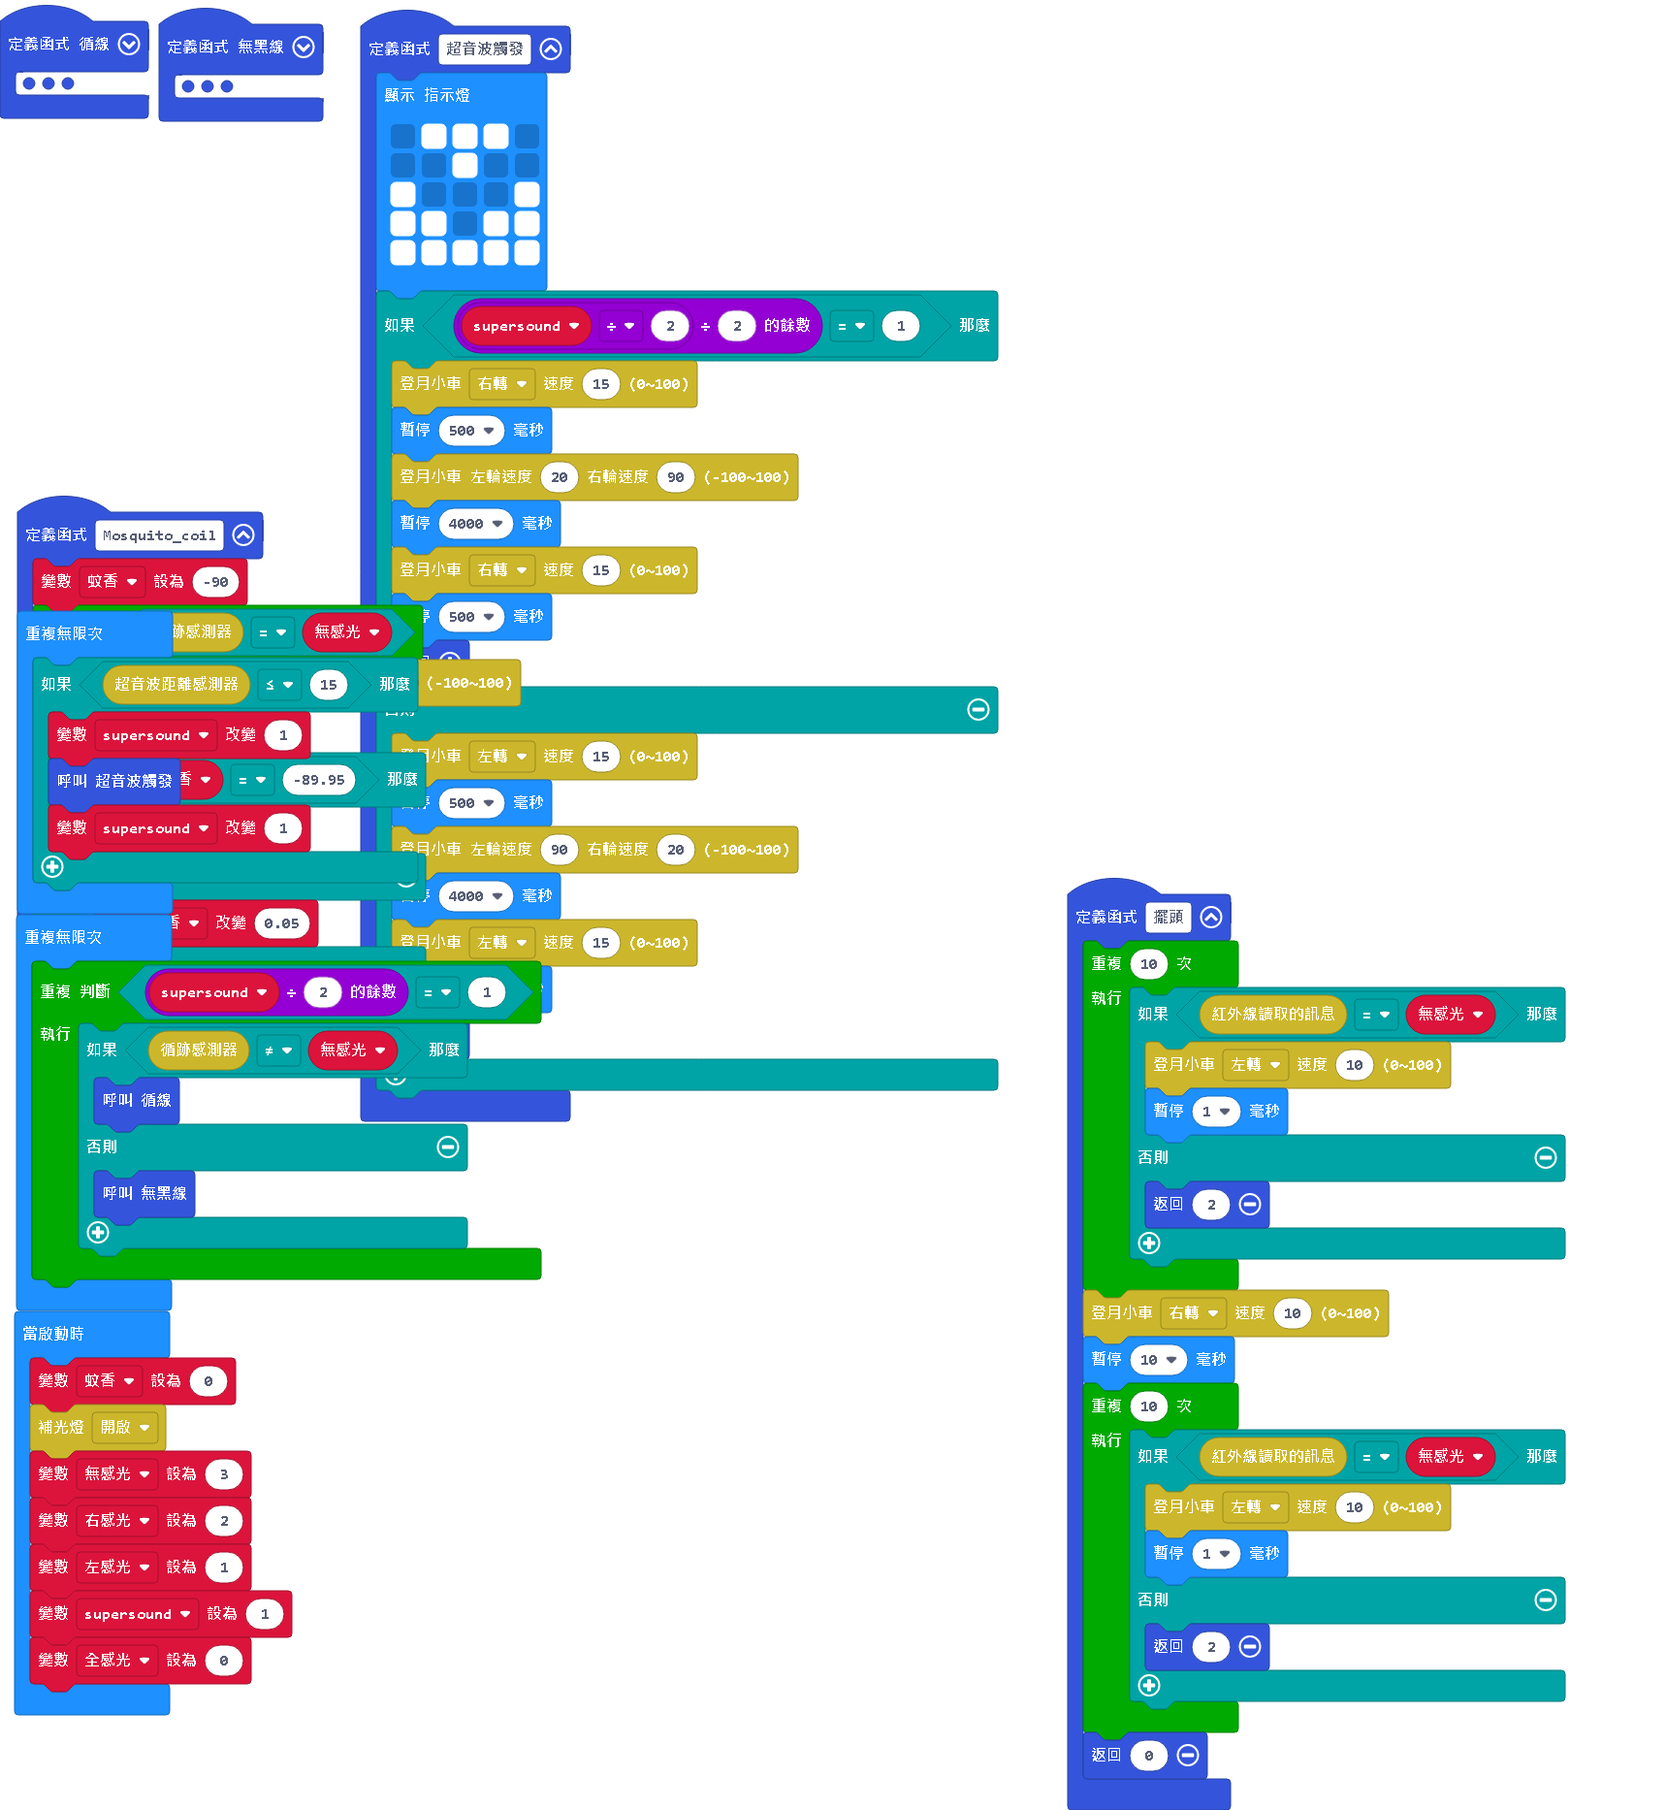
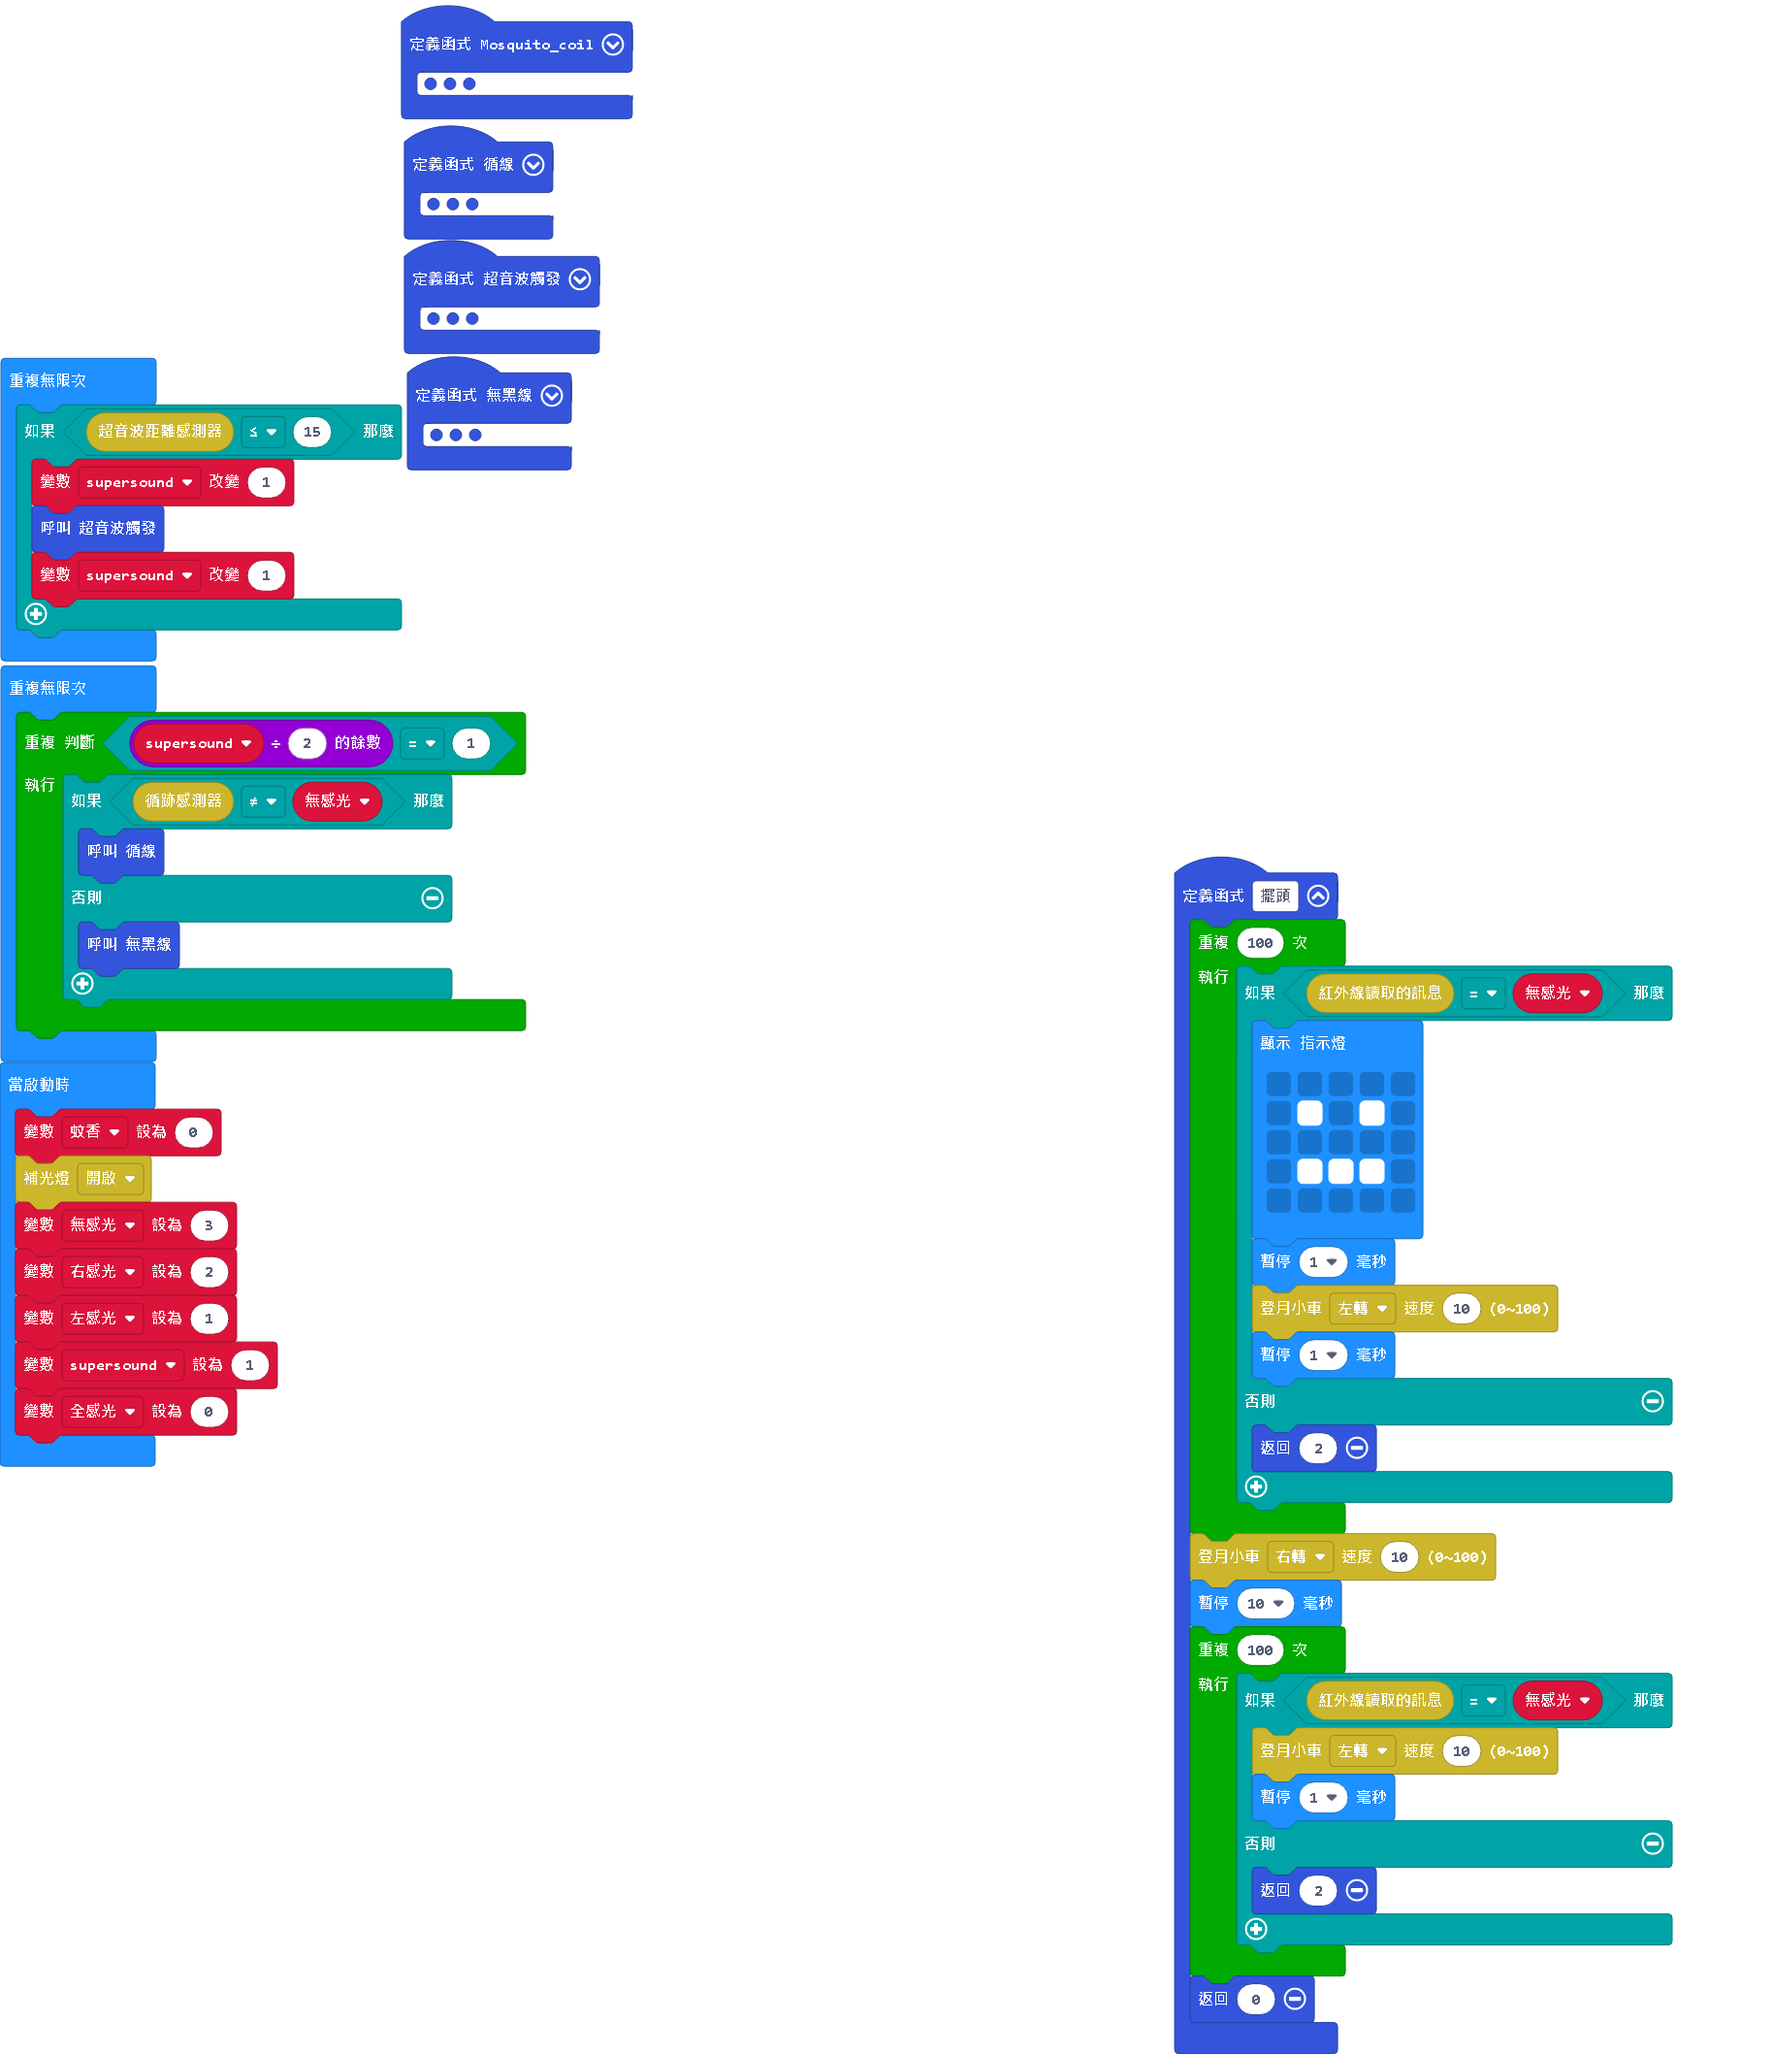
更新 pxt.json, main.blocks, main.ts, main.py

diff --git a/main.ts b/main.ts
@@ -1,35 +1,43 @@
-function 擺頭(): number {
-    for (let index = 0; index < 10; index++) {
+function 擺頭 () {
+    for (let index = 0; index < 100; index++) {
         if (mooncar.IRRead() == 無感光) {
+            basic.showLeds(`
+                . . . . .
+                . # . # .
+                . . . . .
+                . # # # .
+                . . . . .
+                `)
+            basic.pause(1)
             mooncar.MoonCarGo(mooncar.Direction.direct3, 10)
             basic.pause(1)
         } else {
             return 2
         }
-        
     }
     mooncar.MoonCarGo(mooncar.Direction.direct4, 10)
     basic.pause(10)
-    for (let index2 = 0; index2 < 10; index2++) {
+    for (let index = 0; index < 100; index++) {
         if (mooncar.IRRead() == 無感光) {
             mooncar.MoonCarGo(mooncar.Direction.direct3, 10)
             basic.pause(1)
         } else {
             return 2
         }
-        
     }
     return 0
 }
-
-function 循線() {
+function 循線 () {
     basic.showLeds(`
         . # . # .
-                . . . . .
-                # # . # #
-                . . # . .
-                . . . . .
-    `)
+        . . . . .
+        # # . # #
+        . . # . .
+        . . . . .
+        `)
+    basic.pause(1)
+    mooncar.MoonCarGo(mooncar.Direction.direct5, 100)
+    basic.pause(100)
     if (mooncar.LineFollowerSensor() == 全感光) {
         mooncar.MoonCarGo(mooncar.Direction.direct1, 15)
         basic.pause(1)
@@ -40,17 +48,15 @@ function 循線() {
         mooncar.MoonCarGo(mooncar.Direction.direct4, 6)
         basic.pause(1)
     }
-    
 }
-
-function 超音波觸發() {
+function 超音波觸發 () {
     basic.showLeds(`
         . # # # .
-                . . # . .
-                # . . . #
-                # # . # #
-                # # # # #
-    `)
+        . . # . .
+        # . . . #
+        # # . # #
+        # # # # #
+        `)
     if (supersound / 2 % 2 == 1) {
         mooncar.MoonCarGo(mooncar.Direction.direct4, 15)
         basic.pause(500)
@@ -68,11 +74,16 @@ function 超音波觸發() {
         basic.pause(500)
         return
     }
-    
 }
-
-function Mosquito_coil() {
-    
+function Mosquito_coil () {
+    basic.showLeds(`
+        . . # . .
+        . # . # .
+        # # # # #
+        . # # # .
+        . . # . .
+        `)
+    basic.pause(1)
     蚊香 = -90
     while (mooncar.LineFollowerSensor() == 無感光) {
         mooncar.MoonCarLR(90, 蚊香)
@@ -82,54 +93,53 @@ function Mosquito_coil() {
         } else {
             蚊香 += 0.05
         }
-        
     }
 }
-
-function 無黑線() {
-    擺頭()
+function 無黑線 () {
+    basic.showLeds(`
+        # . . . #
+        . . . . .
+        # . . . #
+        # . . . #
+        . # # # .
+        `)
+    basic.pause(1)
     if (擺頭() == 2) {
         return
     }
-    
-    for (let index3 = 0; index3 < 100; index3++) {
+    for (let index = 0; index < 100; index++) {
         if (mooncar.IRRead() == 無感光) {
             mooncar.MoonCarGo(mooncar.Direction.direct1, 20)
             basic.pause(1)
         } else {
             return
         }
-        
     }
     if (擺頭() == 2) {
         return
     }
-    
     mooncar.MoonCarGo(mooncar.Direction.direct2, 20)
     basic.pause(100)
-    for (let index4 = 0; index4 < 10; index4++) {
+    for (let index = 0; index < 10; index++) {
         if (mooncar.IRRead() == 無感光) {
             mooncar.MoonCarGo(mooncar.Direction.direct3, 20)
             basic.pause(1)
         } else {
             return
         }
-        
     }
     mooncar.MoonCarGo(mooncar.Direction.direct3, 20)
     basic.pause(50)
-    for (let index5 = 0; index5 < 10; index5++) {
+    for (let index = 0; index < 10; index++) {
         if (mooncar.IRRead() == 無感光) {
             mooncar.MoonCarGo(mooncar.Direction.direct3, 20)
             basic.pause(1)
         } else {
             return
         }
-        
     }
     Mosquito_coil()
 }
-
 let 全感光 = 0
 let supersound = 0
 let 左感光 = 0
@@ -143,22 +153,19 @@ mooncar.Filllight(mooncar.Switch.Open)
 左感光 = 1
 supersound = 1
 全感光 = 0
-basic.forever(function on_forever() {
-    
+basic.forever(function () {
     if (mooncar.UltrasonicSensor() <= 15) {
         supersound += 1
         超音波觸發()
         supersound += 1
     }
-    
 })
-basic.forever(function on_forever2() {
+basic.forever(function () {
     while (supersound % 2 == 1) {
         if (mooncar.LineFollowerSensor() != 無感光) {
             循線()
         } else {
             無黑線()
         }
-        
     }
 })

diff --git a/main.py b/main.py
@@ -1,5 +1,13 @@
 def 擺頭():
-    for index in range(10):
+    basic.show_leds("""
+        . . . . .
+                . # . # .
+                . . . . .
+                . # # # .
+                . . . . .
+    """)
+    basic.pause(1)
+    for index in range(100):
         if mooncar.ir_read() == 無感光:
             mooncar.moon_car_go(mooncar.Direction.DIRECT3, 10)
             basic.pause(1)
@@ -7,7 +15,7 @@ def 擺頭():
             return 2
     mooncar.moon_car_go(mooncar.Direction.DIRECT4, 10)
     basic.pause(10)
-    for index2 in range(10):
+    for index2 in range(100):
         if mooncar.ir_read() == 無感光:
             mooncar.moon_car_go(mooncar.Direction.DIRECT3, 10)
             basic.pause(1)
@@ -22,6 +30,9 @@ def 循線():
                 . . # . .
                 . . . . .
     """)
+    basic.pause(1)
+    mooncar.moon_car_go(mooncar.Direction.DIRECT5, 100)
+    basic.pause(100)
     if mooncar.line_follower_sensor() == 全感光:
         mooncar.moon_car_go(mooncar.Direction.DIRECT1, 15)
         basic.pause(1)
@@ -57,6 +68,14 @@ def 超音波觸發():
         return
 def Mosquito_coil():
     global 蚊香
+    basic.show_leds("""
+        . . # . .
+                . # . # .
+                # # # # #
+                . # # # .
+                . . # . .
+    """)
+    basic.pause(1)
     蚊香 = -90
     while mooncar.line_follower_sensor() == 無感光:
         mooncar.moon_car_lr(90, 蚊香)
@@ -66,7 +85,14 @@ def Mosquito_coil():
         else:
             蚊香 += 0.05
 def 無黑線():
-    擺頭()
+    basic.show_leds("""
+        # . . . #
+                . . . . .
+                # . . . #
+                # . . . #
+                . # # # .
+    """)
+    basic.pause(1)
     if 擺頭() == 2:
         return
     for index3 in range(100):
